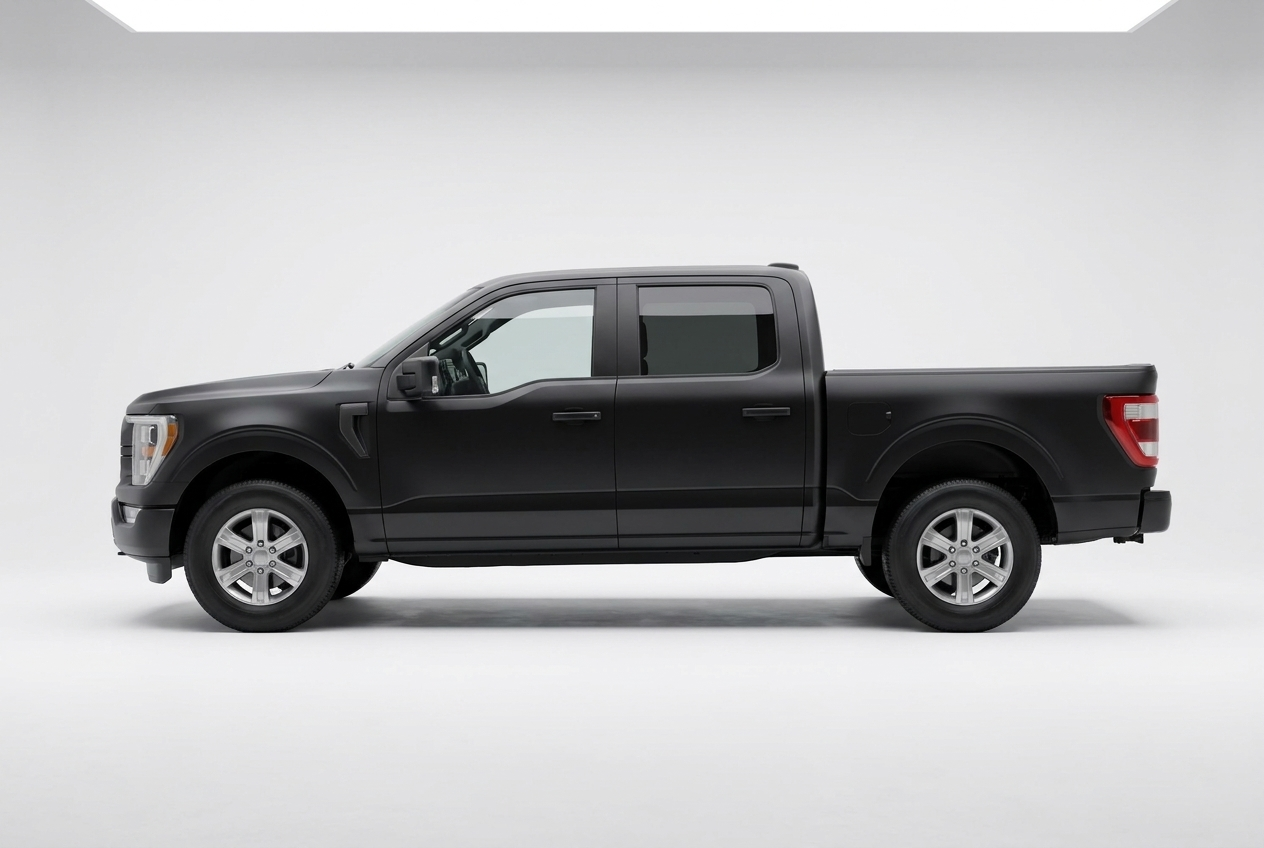
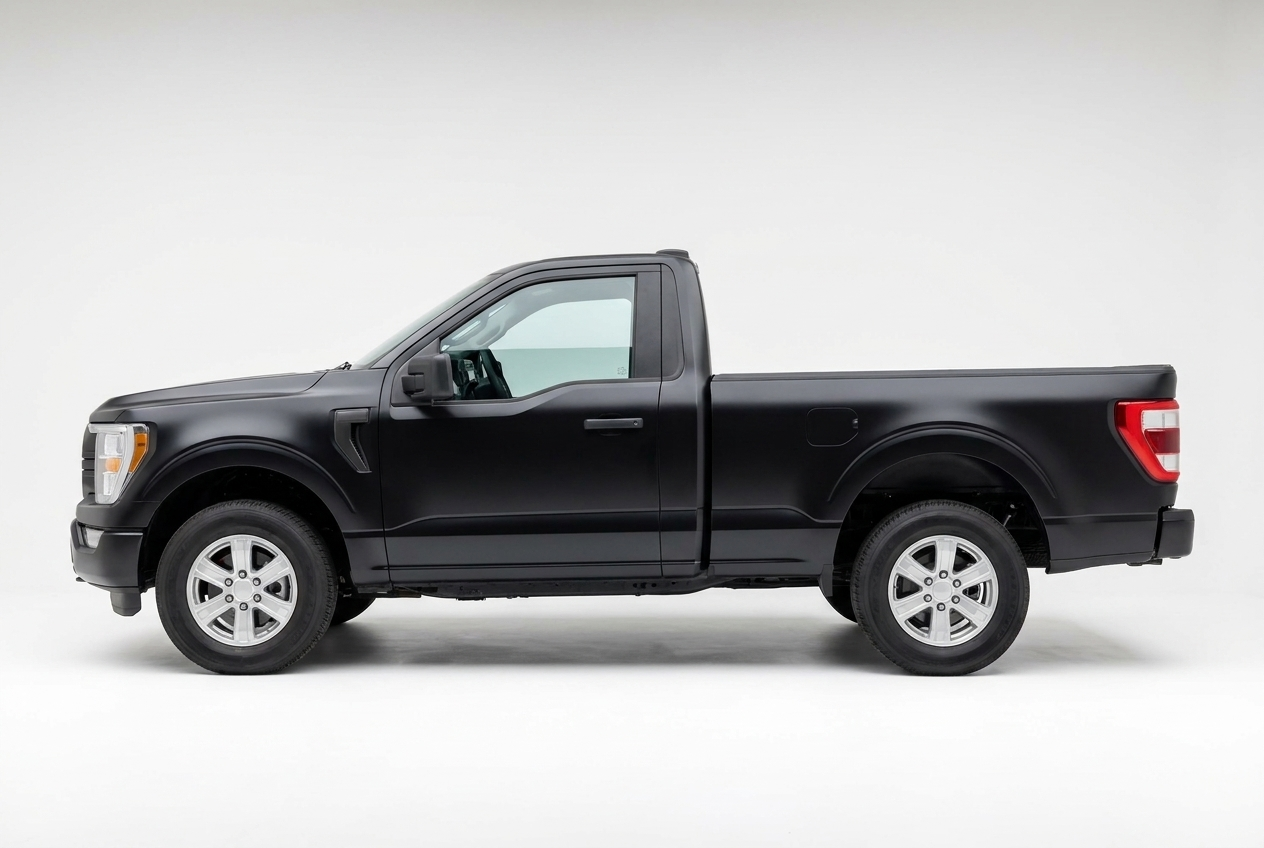
Cycle 14AP-fix6+7: per-YMM option filter + locked-spec regen
Two ownership-driven fixes in one push.

(fix7) Per-YMM dimension filtering — owner: "for any category, we
should show options for what's available for that YMM ONLY, e.g.
2021 Ford F-150 is available with three bed lengths (5.5'/6.5'/8')
— we have 6 options in total but that's not helping the customer."

  * New lookup VEHICLE_BED_LENGTHS + VEHICLE_CAB_TYPES in
    lib/fitment/sub-model.ts keyed by `<make> <model>` (case-insens).
    Covers light-duty + HD domestic + import + mid-size + Honda
    Ridgeline (single-bed). Derived from MY2024 manufacturer trim
    catalogs.
  * New helpers: availableOptionsForVehicle(group, vehicle) returns
    the subset for the vehicle (or null when vehicle/group not in
    table); availableStripsForCategory(handle, vehicle) wraps
    stripsForCategory and narrows each strip's options.
  * DimensionPicker swaps stripsForCategory → availableStripsForCategory.
    F-150 customer on /collections/tonneau-covers now sees 3 bed-length
    chips (5.5/6.5/8), not 6. Tacoma customer sees 2 (5/6). Ridgeline
    customer sees 1.
  * Unknown vehicles (not in the lookup) get the full option set —
    no regression.
  * Trim and doors: kept generic (full set always shown). Trim package
    naming varies too narrowly per model-year to maintain a static
    lookup; door count rarely needed.

(fix6) Front-grille POC re-prompt — owner round 2 feedback:
  "all the cars should point to the same direction, same background,
[…]

diff --git a/scripts/regen-dimension-chip-photos.ts b/scripts/regen-dimension-chip-photos.ts
@@ -32,52 +32,73 @@ const GAS_ENDPOINT = `https://generativelanguage.googleapis.com/v1beta/models/${
 // Camera angle and framing are fixed across the full set so the chip row
 // reads as a coherent comparison strip, not a random gallery.
 const CHIPS: { slug: string; subject: string; framing: string; intent: string }[] = [
-  // ─── BED LENGTH (6 options) ───────────────────────────────────────────
-  // Pure side profile of a generic modern American pickup, varying only
-  // the bed length. Camera position, distance, lighting, paint colour
-  // identical across all 6 so the customer's eye reads the BED size as
-  // the only variable. White seamless studio background.
+  // ─── BED LENGTH (6 options) ─────────────────────────────────────────
+  // Cycle 14AP-fix6 (owner): the prior pass produced mixed orientations
+  // (some left-facing, some right-facing), mixed truck models, mixed
+  // backgrounds, and AI artifacts (2 heads / 2 tails). Locking down:
+  //
+  //   * Vehicle: ONE anonymous matte-black American pickup, no badges,
+  //     no manufacturer logos, no light bars, completely stock.
+  //   * Orientation: ALL chips face LEFT (cab on the left edge of the
+  //     frame, bed extends to the RIGHT). Customer's eye learns to read
+  //     bed length on the right half of every card.
+  //   * Camera: pure side profile, dead-level, eye-line height, single
+  //     focal length (~85mm equivalent — no wide-angle distortion),
+  //     identical distance from vehicle.
+  //   * Background: PURE WHITE seamless studio cyclorama, no horizon,
+  //     no ground plane shadow other than a soft contact shadow under
+  //     the tires.
+  //   * Lighting: single soft top-down key light, no rim lights, no
+  //     amber accents, no environmental light. Flat product-photography
+  //     style — the BED RATIO is the only thing that should vary.
+  //   * Crop: vehicle takes 80% of frame width, 8% padding top/bottom,
+  //     5% padding left/right.
+  //
+  // The bed-vs-cab ratio is the only visual differentiator. Each chip
+  // also gets an SVG measurement overlay applied client-side in the
+  // picker UI, so even if Gemini's photo is approximate the dimension
+  // is reinforced numerically.
   {
     slug: "bed-length-4-6-bed",
     subject:
-      "modern matte-black American pickup truck (anonymous styling — no badges, no manufacturer logo) with a noticeably SHORT 4.6-foot truck bed (compact / utility-bed length, common on Nissan Frontier D40)",
-    framing: "pure side profile, dead-level camera, full vehicle in frame with 10% padding above and below, white seamless studio background, soft top-down studio lighting, tires on flat ground",
-    intent: "Customer should immediately read 'this is the SHORTEST bed option'. The bed length is the visual subject — exaggerate the front cab to bed ratio so the bed reads as compact.",
+      "ONE anonymous matte-black American pickup truck, no badges, no logos, regular cab (2-door), with a 4.6-foot truck bed — clearly the SHORTEST configuration. Cab + 2-door area takes ~60% of the side profile width, bed takes ~40%. Stock factory wheels. No light bars, no roof racks, no aftermarket parts.",
+    framing: "PURE LEFT SIDE PROFILE — vehicle FACING LEFT (cab on LEFT edge of frame, bed extends to the RIGHT). Dead-level camera at vehicle eye-line. Pure white seamless cyclorama background, soft top-down studio key light only. Vehicle 80% of frame width. Soft contact shadow under tires.",
+    intent: "Shortest bed — bed takes ~40% of side profile. The right-half of the chip is the bed; the left-half is the cab + door. Same truck silhouette as the other 5 chips.",
   },
   {
     slug: "bed-length-5-bed",
     subject:
-      "modern matte-black American pickup truck (anonymous styling) with a 5-foot truck bed (compact, often paired with crew-cab configurations on mid-size trucks)",
-    framing: "pure side profile, dead-level camera, full vehicle in frame, white seamless studio background, identical lighting and angle to the other bed-length chips",
-    intent: "Slightly longer bed than 4.6'. Customer reads it as 'short bed, crew cab'.",
+      "EXACT SAME anonymous matte-black American pickup truck as the other bed-length chips, no badges, no logos, regular cab (2-door), now with a 5-foot truck bed. Cab + 2-door area takes ~58% of side profile, bed takes ~42%. Same wheels, same colour, same trim — only the bed length has changed.",
+    framing: "IDENTICAL framing to the other bed-length chips: PURE LEFT SIDE PROFILE, vehicle facing LEFT, cab on LEFT edge, bed extends RIGHT. Pure white seamless cyclorama, same lighting, same camera distance, same eye-line.",
+    intent: "Slightly longer bed than 4.6'. Bed-to-cab ratio shifts ~2% bigger. Same truck.",
   },
   {
     slug: "bed-length-5-5-bed",
     subject:
-      "modern matte-black American pickup truck (anonymous styling) with a 5.5-foot truck bed (the classic SHORT bed on a half-ton crew cab — Ford F-150 SuperCrew 5.5-ft, Silverado 1500 5.8-ft)",
-    framing: "pure side profile, dead-level camera, full vehicle in frame, white seamless studio background, identical lighting and angle to the other bed-length chips",
-    intent: "Most popular short-bed option. Customer reads 'this is my F-150 SuperCrew bed'.",
+      "EXACT SAME anonymous matte-black American pickup truck silhouette, regular cab (2-door), now with a 5.5-foot truck bed. Cab takes ~55% of profile, bed takes ~45%. Same vehicle, same wheels, same paint — only the bed dimension changes.",
+    framing: "IDENTICAL framing — pure left side profile, vehicle facing LEFT, white cyclorama, same lighting and camera as all other bed-length chips.",
+    intent: "Most-common short-bed option. Bed reads as a meaningful step longer than 5'.",
   },
   {
     slug: "bed-length-6-bed",
     subject:
-      "modern matte-black American pickup truck (anonymous styling) with a 6-foot truck bed (Toyota Tacoma long bed, mid-size standard)",
-    framing: "pure side profile, dead-level camera, full vehicle in frame, white seamless studio background, identical lighting and angle to the other bed-length chips",
-    intent: "Mid-length. Customer reads 'between short and standard'.",
+      "EXACT SAME anonymous matte-black American pickup truck silhouette, regular cab (2-door), now with a 6-foot truck bed. Cab takes ~52% of profile, bed takes ~48%. Same everything else.",
+    framing: "IDENTICAL framing — pure left side profile, vehicle facing LEFT, white cyclorama.",
+    intent: "Mid-length bed. Customer reads it as roughly bed = cab.",
   },
   {
     slug: "bed-length-6-5-bed",
     subject:
-      "modern matte-black American pickup truck (anonymous styling) with a 6.5-foot truck bed (the classic STANDARD bed on a half-ton — Ford F-150 6.5-ft, Silverado 1500 6.6-ft)",
-    framing: "pure side profile, dead-level camera, full vehicle in frame, white seamless studio background, identical lighting and angle to the other bed-length chips",
-    intent: "Standard bed. Customer reads 'this is the regular F-150 / Silverado bed'.",
+      "EXACT SAME anonymous matte-black American pickup truck silhouette, regular cab (2-door), now with a 6.5-foot truck bed. Cab takes ~48% of profile, bed takes ~52% — bed slightly LONGER than cab now. Same vehicle, same wheels, same paint.",
+    framing: "IDENTICAL framing — pure left side profile, vehicle facing LEFT, white cyclorama.",
+    intent: "Standard half-ton bed. Bed becomes the visually larger half — the tipping point in the comparison strip.",
   },
   {
     slug: "bed-length-8-bed",
     subject:
-      "modern matte-black American pickup truck (anonymous styling) with a noticeably LONG 8-foot truck bed (full work-truck bed, common on F-250/F-350 single cab and 3500-class)",
-    framing: "pure side profile, dead-level camera, full vehicle in frame with 10% padding above and below, white seamless studio background, identical lighting and angle to the other bed-length chips",
-    intent: "Customer reads 'this is the LONGEST bed' — the bed should clearly dominate the side profile and visually overshadow the cab.",
+      "EXACT SAME anonymous matte-black American pickup truck silhouette, regular cab (2-door), now with a noticeably LONG 8-foot truck bed. Cab takes ~38% of profile, bed takes ~62% — bed clearly DOMINATES the side profile. Same vehicle.",
+    framing: "IDENTICAL framing — pure left side profile, vehicle facing LEFT, white cyclorama, same lighting.",
+    intent: "Longest bed. Bed is visually almost twice the width of the cab — customer immediately reads it as the LONGEST option in the strip.",
   },
 
   // ─── CAB TYPE (3 options) ─────────────────────────────────────────────
@@ -131,66 +152,78 @@ const CHIPS: { slug: string; subject: string; framing: string; intent: string }[
     intent: "Customer reads 'aggressive premium / off-road package — that's my Raptor / TRD Pro'.",
   },
 
-  // ─── FRONT-GRILLE POC (Cycle 14AP-fix4, owner) ───────────────────────
-  // Per-category override for front-grilles ONLY. Shows the SAME Ford
-  // F-150 in the SAME 3/4-front camera angle across all 6 photos so
-  // the customer compares apples-to-apples. Each trim has a STOCK
-  // photo (factory grille) AND a STEHLEN photo (matte-black hex-mesh
-  // Stehlen grille mounted in place of the factory unit). The picker
-  // adds a toggle button to swap between the two views — gives the
-  // customer a real-time preview of what their truck would look like
-  // with the Stehlen grille installed.
+  // ─── FRONT-GRILLE POC (Cycle 14AP-fix6 — owner round 2) ─────────────
+  // Round 1 came back with mixed orientations (BASE faced right, MID
+  // faced left), mixed truck models (HEAVY-DUTY rendered a CHASE RACK
+  // not a truck — Gemini got confused by "Raptor-style"), and a
+  // STEHLEN wordmark on the grille that owner specifically didn't want
+  // ("our actual products do not have it").
   //
-  // Naming convention: front-grille-trim-<value>-<view>
-  //   view = "stock" | "stehlen"
-  //
-  // Vehicle anchor: 2024 Ford F-150 SuperCrew, three-quarter front-side
-  // angle, eye-level camera, plain white seamless studio background,
-  // soft top-down lighting from above-camera-left. Trim differentiation
-  // is ONLY in the grille zone, paint, wheels, and bumper styling — body
-  // shape and stance stay identical so the customer's eye locks on the
-  // grille area where the product fits.
+  // Locked-down round 2:
+  //   * Vehicle: 2024 Ford F-150 SuperCrew 4-door — IDENTICAL silhouette
+  //     across all 6 photos. NO mention of "Raptor" / "Trail Boss" /
+  //     "TRD Pro" / "Rebel" — those words trip Gemini into rendering
+  //     completely different vehicles.
+  //   * Angle: 3/4 front-side, FACING LEFT — vehicle is angled so the
+  //     grille is visible on the LEFT side of the frame, body extends
+  //     to the RIGHT. ALL 6 use this same angle, same camera height,
+  //     same camera distance.
+  //   * Background: pure white seamless studio cyclorama, soft top-
+  //     down key light, soft contact shadow under tires only. NO
+  //     environment, NO mountains, NO desert.
+  //   * Trim diff: paint colour + bumper finish + wheel style ONLY.
+  //     Body shape, stance, ride height, and camera framing all
+  //     identical so the only thing that changes between trim levels
+  //     is the colour story and the trim-package surface treatment.
+  //   * Grille (Stehlen view): matte-black hex-mesh aftermarket grille
+  //     replacing the factory chrome surround. NO Stehlen wordmark.
+  //     NO embossed branding. Just a matte-black hex-mesh face — what
+  //     the actual product looks like.
+  //   * Within each trim pair (base-stock + base-stehlen), the camera
+  //     position, lighting, paint, wheels, and bumper are IDENTICAL.
+  //     The ONLY visual difference is the grille area. Customer toggles
+  //     and sees a true 1:1 swap.
   {
     slug: "front-grille-trim-base-stock",
     subject:
-      "2024 Ford F-150 XL work-truck trim (BASE), oxford white paint, factory chrome front bumper, factory steel-mesh grille with chrome surround, factory steel wheels, fleet/commercial appearance, three-quarter front-side angle showing the front grille area clearly. STOCK FACTORY — no aftermarket parts.",
-    framing: "three-quarter front-side angle, eye-level camera, full vehicle in frame with 8% padding, plain white seamless studio background, soft top-down lighting from above-camera-left — identical framing to ALL other front-grille-trim-* photos",
-    intent: "Same F-150 silhouette as the other two trims; customer reads 'BASE / WORK trim — chrome bumper, steel grille, white work truck'. The grille area is the visual focal point.",
+      "2024 Ford F-150 SuperCrew 4-door pickup truck in BASE / XL work-truck trim. Oxford white paint. Factory chrome front bumper. Factory chrome-surround grille with horizontal silver bars. Factory 17-inch steel wheels with hub caps. Standard ride height (no lift). NO aftermarket parts of any kind. NO chase rack, NO bed accessories, NO roof rack, NO light bar.",
+    framing: "Three-quarter front-side view, vehicle FACING LEFT — grille on the LEFT half of the frame, body extending to the RIGHT. Eye-level camera, ~85mm focal length (no wide-angle distortion), camera ~15ft from vehicle. Full vehicle in frame with 8% padding all sides. Pure white seamless studio cyclorama (no horizon, no environment). Single soft top-down studio key light, soft contact shadow under tires. The grille area is the visual focal point.",
+    intent: "Same Ford F-150 silhouette as the other two trims; only paint + bumper + wheels differ. Customer reads 'BASE / WORK trim — chrome bumper, steel wheels, white paint'.",
   },
   {
     slug: "front-grille-trim-base-stehlen",
     subject:
-      "EXACT same 2024 Ford F-150 XL work-truck (oxford white, chrome bumper, steel wheels) BUT with a matte-black STEHLEN aftermarket front grille installed in place of the factory chrome-surround grille. The Stehlen grille has a hex-mesh insert with a row of three amber LED markers across the upper crossbar and a STEHLEN wordmark embossed in the lower-center mesh. Everything else about the vehicle is identical to the stock photo.",
-    framing: "IDENTICAL framing, camera position, lighting, paint, wheels to front-grille-trim-base-stock — only the grille has been replaced. The customer should be able to mentally swap between this and the stock photo and see ONLY the grille difference.",
-    intent: "Customer toggles from STOCK and immediately sees what their work-trim F-150 would look like with the Stehlen hex-mesh grille bolted on.",
+      "EXACT SAME 2024 Ford F-150 SuperCrew 4-door in BASE / XL trim — oxford white paint, chrome bumper, factory steel wheels — BUT with a matte-black hex-mesh aftermarket front grille installed in place of the factory chrome-surround grille. Hex-mesh has a clean honeycomb pattern, no badging, no wordmark, no LED markers, no decoration. Just a matte-black hex grille face. Everything else about the vehicle is byte-for-byte identical to the BASE stock photo: same angle, same paint, same bumper, same wheels, same lighting.",
+    framing: "IDENTICAL framing, camera position, lighting, vehicle position, paint, bumper, and wheels to front-grille-trim-base-stock. The customer must be able to flip back and forth between the two photos and see ONLY the grille change.",
+    intent: "Customer toggles from STOCK and sees what their white work-trim F-150 looks like with a matte-black hex-mesh grille bolted on. The chrome-to-black grille swap is the only visible change.",
   },
   {
     slug: "front-grille-trim-mid-stock",
     subject:
-      "2024 Ford F-150 XLT mid-trim, lightning blue metallic paint, body-color front bumper, factory body-color grille with chrome accents and Ford BLUE OVAL badge, factory 18-inch alloy wheels, mainstream consumer appearance, three-quarter front-side angle showing the front grille area clearly. STOCK FACTORY — no aftermarket parts.",
-    framing: "three-quarter front-side angle, eye-level camera, full vehicle in frame with 8% padding, plain white seamless studio background, soft top-down lighting from above-camera-left — identical framing to ALL other front-grille-trim-* photos",
-    intent: "Same F-150 silhouette; customer reads 'XLT / mid-trim — body-color bumper, factory grille with chrome'. Grille zone is the focus.",
+      "2024 Ford F-150 SuperCrew 4-door pickup truck in MID-TIER / XLT trim. Atlas blue metallic paint. Factory body-color (blue) front bumper. Factory body-color grille with chrome horizontal bars. Factory 18-inch alloy wheels. Standard ride height. NO aftermarket parts.",
+    framing: "IDENTICAL framing to front-grille-trim-base-stock — three-quarter front-side view, vehicle facing LEFT, grille on LEFT half of frame, eye-level camera, same focal length, same distance, pure white seamless studio cyclorama, same lighting.",
+    intent: "Same F-150 silhouette as BASE; only paint colour + bumper finish + wheel style change. Customer reads 'XLT / MID trim — blue paint, body-color bumper, alloy wheels'.",
   },
   {
     slug: "front-grille-trim-mid-stehlen",
     subject:
-      "EXACT same 2024 Ford F-150 XLT (lightning blue, body-color bumper, alloy wheels) BUT with a matte-black STEHLEN aftermarket front grille installed in place of the factory body-color grille. Stehlen grille has hex-mesh insert with three amber LED markers across the top and STEHLEN wordmark embossed lower-center. Everything else identical to the mid-trim stock photo.",
-    framing: "IDENTICAL framing, camera position, lighting, paint, wheels to front-grille-trim-mid-stock — only the grille is swapped.",
-    intent: "Mid-trim customer sees their XLT F-150 with the Stehlen grille bolted on.",
+      "EXACT SAME 2024 Ford F-150 SuperCrew XLT — atlas blue metallic, body-color bumper, alloy wheels — BUT with the SAME matte-black hex-mesh aftermarket grille from the BASE stehlen photo installed in place of the factory grille. Hex-mesh face, no badging, no wordmark, no LEDs. Same grille design as base-stehlen so the toggle reads consistently.",
+    framing: "IDENTICAL framing, camera position, lighting, paint, bumper, and wheels to front-grille-trim-mid-stock. Only the grille has been swapped to matte-black hex-mesh.",
+    intent: "Mid-trim customer sees their blue XLT F-150 with the matte-black hex grille bolted on.",
   },
   {
     slug: "front-grille-trim-heavy-duty-stock",
     subject:
-      "2024 Ford F-150 Raptor-style HEAVY-DUTY / off-road trim, agate black metallic paint, blacked-out front bumper, factory matte-black grille with FORD wordmark across the top, factory 17-inch beadlock-style off-road wheels, slight factory lift, fender flares, aggressive premium stance, three-quarter front-side angle showing the front grille area clearly. STOCK FACTORY — no aftermarket parts.",
-    framing: "three-quarter front-side angle, eye-level camera, full vehicle in frame with 8% padding, plain white seamless studio background, soft top-down lighting from above-camera-left — identical framing to ALL other front-grille-trim-* photos",
-    intent: "Same F-150 silhouette; customer reads 'Raptor / heavy-duty trim — black-on-black, off-road wheels, lifted'. Grille zone is the focus.",
+      "2024 Ford F-150 SuperCrew 4-door pickup truck in HEAVY-DUTY / OFF-ROAD trim package (Lariat / Tremor styling — NOT Raptor, NOT Trail Boss, NOT Rebel). Agate black metallic paint. Blacked-out front bumper. Factory matte-black grille with chrome horizontal bars and Ford blue-oval badge. Factory 18-inch matte-black off-road wheels with all-terrain tires. Slight 2-inch factory lift. NO chase rack, NO bed accessories, NO roof rack — this is JUST the truck.",
+    framing: "IDENTICAL framing to front-grille-trim-base-stock — three-quarter front-side view, vehicle facing LEFT, grille on LEFT half of frame, eye-level camera, pure white seamless studio cyclorama, same lighting. Vehicle takes the same 80% of frame width as the other trims.",
+    intent: "Same F-150 silhouette as BASE and MID; only paint + bumper + wheels change. Customer reads 'HEAVY-DUTY / off-road trim — black-on-black, off-road wheels, slightly lifted'. The truck must be RECOGNIZABLY THE SAME F-150, not a different vehicle.",
   },
   {
     slug: "front-grille-trim-heavy-duty-stehlen",
     subject:
-      "EXACT same 2024 Ford F-150 Raptor-style heavy-duty trim (agate black, blacked-out bumper, off-road wheels) BUT with a matte-black STEHLEN aftermarket front grille installed in place of the factory grille. Stehlen grille has hex-mesh insert with three amber LED markers across the top crossbar and STEHLEN wordmark embossed lower-center. The black-on-black aesthetic of the truck and the matte-black Stehlen grille blend tactically. Everything else identical to the heavy-duty stock photo.",
-    framing: "IDENTICAL framing, camera position, lighting, paint, wheels to front-grille-trim-heavy-duty-stock — only the grille is swapped.",
-    intent: "Premium-trim customer sees their Raptor-style F-150 with the Stehlen grille bolted on — the matte-black-on-matte-black is the strongest visual sell.",
+      "EXACT SAME 2024 Ford F-150 SuperCrew heavy-duty trim — agate black, blacked-out bumper, matte-black off-road wheels, slight factory lift — BUT with the SAME matte-black hex-mesh aftermarket grille from the BASE and MID stehlen photos installed. Hex-mesh face, no badging, no wordmark, no LEDs. Same grille design across all 3 stehlen photos for visual consistency. The black-on-black aesthetic blends the new grille seamlessly with the truck.",
+    framing: "IDENTICAL framing, camera position, lighting, paint, bumper, and wheels to front-grille-trim-heavy-duty-stock. Only the grille has been swapped to matte-black hex-mesh.",
+    intent: "Premium-trim customer sees their black F-150 with the matte-black hex grille bolted on — the all-black look is the strongest visual sell.",
   },
 ];
 

diff --git a/src/lib/fitment/sub-model.ts b/src/lib/fitment/sub-model.ts
@@ -88,6 +88,133 @@ export function stripsForCategory(
 }
 
 /**
+ * Cycle 14AP-fix7 (owner): per-vehicle dimension availability. The
+ * generic chip strips list every option in the catalog (6 bed lengths,
+ * 3 cab types, 3 trims) — but a 2021 Ford F-150 customer is only sold
+ * in 5.5'/6.5'/8' beds. Showing them 4.6' and 5' and 6' is noise that
+ * implies "maybe my truck has this and I just don't know" — wrong, and
+ * trust-eroding.
+ *
+ * This lookup keys off "<make> <model>" (case-insensitive, post-
+ * normalize) and returns the ACTUALLY-OFFERED option list for each
+ * sub-model group. When a vehicle isn't in the table, callers fall
+ * back to the full STRIPS option set (current behaviour) so we don't
+ * regress unknown vehicles.
+ *
+ * Source: industry-standard manufacturer trim catalogs as of MY2024.
+ * Light-duty pickups + popular SUVs covered; HD trucks (F-250+) and
+ * heavy-class trucks (3500+) lean to longer beds; mid-size trucks
+ * (Tacoma / Frontier / Ranger / Colorado / Canyon) lean to compact.
+ */
+const VEHICLE_BED_LENGTHS: Record<string, string[]> = {
+  // Half-ton domestic
+  "ford f-150": ["5.5' BED", "6.5' BED", "8' BED"],
+  "chevrolet silverado 1500": ["5.5' BED", "6.5' BED", "8' BED"],
+  "chevrolet silverado": ["5.5' BED", "6.5' BED", "8' BED"],
+  "gmc sierra 1500": ["5.5' BED", "6.5' BED", "8' BED"],
+  "gmc sierra": ["5.5' BED", "6.5' BED", "8' BED"],
+  "ram 1500": ["5.5' BED", "6.5' BED"],
+  "dodge ram 1500": ["5.5' BED", "6.5' BED"],
+  // Heavy-duty domestic
+  "ford f-250": ["6.5' BED", "8' BED"],
+  "ford f-350": ["6.5' BED", "8' BED"],
+  "ford f-450": ["8' BED"],
+  "chevrolet silverado 2500": ["6.5' BED", "8' BED"],
+  "chevrolet silverado 3500": ["6.5' BED", "8' BED"],
+  "gmc sierra 2500": ["6.5' BED", "8' BED"],
+  "gmc sierra 3500": ["6.5' BED", "8' BED"],
+  "ram 2500": ["6.5' BED", "8' BED"],
+  "ram 3500": ["6.5' BED", "8' BED"],
+  // Half-ton import
+  "toyota tundra": ["5.5' BED", "6.5' BED", "8' BED"],
+  "nissan titan": ["5.5' BED", "6.5' BED"],
+  // Mid-size
+  "toyota tacoma": ["5' BED", "6' BED"],
+  "ford ranger": ["5' BED", "6' BED"],
+  "chevrolet colorado": ["5' BED", "6' BED"],
+  "gmc canyon": ["5' BED", "6' BED"],
+  "nissan frontier": ["4.6' BED", "5' BED", "6' BED"],
+  "honda ridgeline": ["5' BED"],
+};
+
+const VEHICLE_CAB_TYPES: Record<string, string[]> = {
+  // Most half-ton + HD trucks: all three configs
+  "ford f-150": ["CREW CAB", "SUPERCAB", "REGULAR CAB"],
+  "ford f-250": ["CREW CAB", "SUPERCAB", "REGULAR CAB"],
+  "ford f-350": ["CREW CAB", "SUPERCAB", "REGULAR CAB"],
+  "chevrolet silverado 1500": ["CREW CAB", "SUPERCAB", "REGULAR CAB"],
+  "chevrolet silverado": ["CREW CAB", "SUPERCAB", "REGULAR CAB"],
+  "chevrolet silverado 2500": ["CREW CAB", "SUPERCAB", "REGULAR CAB"],
+  "chevrolet silverado 3500": ["CREW CAB", "SUPERCAB", "REGULAR CAB"],
+  "gmc sierra 1500": ["CREW CAB", "SUPERCAB", "REGULAR CAB"],
+  "gmc sierra": ["CREW CAB", "SUPERCAB", "REGULAR CAB"],
+  // Ram drops Regular Cab on 1500 starting 2019
+  "ram 1500": ["CREW CAB", "SUPERCAB"],
+  "ram 2500": ["CREW CAB", "SUPERCAB", "REGULAR CAB"],
+  "ram 3500": ["CREW CAB", "SUPERCAB", "REGULAR CAB"],
+  // Toyota — Tundra is Crew/Super only modern
+  "toyota tundra": ["CREW CAB", "SUPERCAB"],
+  "toyota tacoma": ["CREW CAB", "SUPERCAB"],
+  // Mid-size import
+  "nissan frontier": ["CREW CAB", "SUPERCAB"],
+  "nissan titan": ["CREW CAB", "SUPERCAB"],
+  // Honda Ridgeline is Crew only
+  "honda ridgeline": ["CREW CAB"],
+};
+
+function vehicleKey(make: string, model: string): string {
+  return `${make} ${model}`.toLowerCase().trim();
+}
+
+/**
+ * Cycle 14AP-fix7 (owner): subset the strip's options to ONLY what the
+ * vehicle is actually sold with. Unknown vehicles (not in the lookup)
+ * get the full option set so the picker still works. Returns null when
+ * no vehicle is set so callers know to use the full set explicitly.
+ */
+export function availableOptionsForVehicle(
+  group: SubModelGroup,
+  vehicle: { make: string; model: string } | null | undefined,
+): string[] | null {
+  if (!vehicle) return null;
+  const key = vehicleKey(vehicle.make, vehicle.model);
+  if (group === "bed_length") {
+    return VEHICLE_BED_LENGTHS[key] ?? null;
+  }
+  if (group === "cab_type") {
+    return VEHICLE_CAB_TYPES[key] ?? null;
+  }
+  // trim and doors: keep all options (trim varies by model-year too
+  // narrowly to maintain a static lookup; door count rarely needed)
+  return null;
+}
+
+/**
+ * Cycle 14AP-fix7 (owner): like stripsForCategory() but with each
+ * strip's options narrowed to what the vehicle is actually sold with.
+ * When the vehicle is unknown to the lookup, falls back to the full
+ * option set. When a strip has only ONE available option for the
+ * vehicle (e.g., Honda Ridgeline → 5' BED only, or 5' BED + CREW CAB),
+ * the option list still contains that single value — the picker can
+ * decide whether to render a single-chip row or auto-select.
+ */
+export function availableStripsForCategory(
+  category: string | undefined,
+  vehicle: { make: string; model: string } | null | undefined,
+): SubModelStripConfig[] {
+  const base = stripsForCategory(category);
+  if (!vehicle) return base;
+  return base.map((s) => {
+    const allowed = availableOptionsForVehicle(s.group, vehicle);
+    if (!allowed || allowed.length === 0) return s;
+    // Keep the canonical option ordering from STRIPS but narrow to
+    // intersection with the vehicle's allowed list.
+    const filtered = s.options.filter((opt) => allowed.includes(opt));
+    return filtered.length > 0 ? { ...s, options: filtered } : s;
+  });
+}
+
+/**
  * Cycle 14AP (owner): convert a (group, optionLabel) pair into a stable
  * slug used for chip-image filenames under /public/images/dimensions/.
  * Examples:

diff --git a/src/components/commerce/dimension-picker.tsx b/src/components/commerce/dimension-picker.tsx
@@ -5,9 +5,9 @@ import Image from "next/image";
 import { usePathname, useRouter, useSearchParams } from "next/navigation";
 import { Icons } from "@/components/ui/icons";
 import {
+  availableStripsForCategory,
   canonicalSubModelValue,
   dimensionChipSlug,
-  stripsForCategory,
   type SubModelStripConfig,
 } from "@/lib/fitment/sub-model";
 import type { SubModelAnswer, SubModelGroup, Vehicle } from "@/lib/garage/types";
@@ -413,7 +413,15 @@ export function DimensionPicker({
     [vehicle, clearDb, clearUrlDim],
   );
 
-  const strips: SubModelStripConfig[] = stripsForCategory(categoryHandle);
+  // Cycle 14AP-fix7 (owner): narrow the chip options to what the vehicle
+  // is actually sold with. 2021 Ford F-150 only has 5.5'/6.5'/8' beds,
+  // so showing 4.6'/5'/6' is noise that implies "maybe my truck has one
+  // of these and I just don't know" — wrong, and trust-eroding. Falls
+  // back to the full option set when vehicle is null or unknown.
+  const strips: SubModelStripConfig[] = availableStripsForCategory(
+    categoryHandle,
+    vehicle ?? null,
+  );
   if (strips.length === 0) return null;
 
   // Cycle 14AP-fix4 (owner POC): on /collections/front-grilles ONLY,
